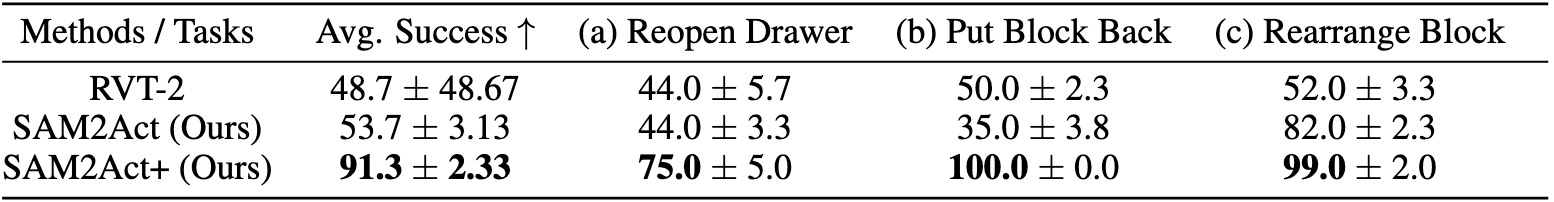
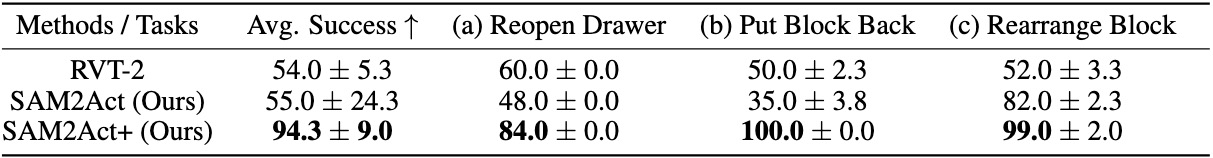
update info

diff --git a/index.html b/index.html
@@ -249,7 +249,7 @@
                             <span class="link-block">
                                 <a target="_blank" href="https://github.com/sam2act/sam2act" class="external-link button is-normal is-rounded is-dark">
                                     <span class="icon"><i class="fab fa-github"></i></span>
-                                    <span>Code (Coming Soon)</span>
+                                    <span>Code</span>
                                 </a>
                             </span>
                             <!-- MemoryBench Link. -->
@@ -423,8 +423,8 @@
                             <br></br>
                             SAM2Act leverages the pre-trained SAM2 encoder
                             to extract multi-resolution image embeddings, which are further refined through the multi-resolution
-                            upsampling technique to predict accurate translation heatmaps with minimal information loss. To ad-
-                            dress tasks requiring spatial memory, SAM2Act+ extends the SAM2Act architecture by incorporating
+                            upsampling technique to predict accurate translation heatmaps with minimal information loss. To 
+                            address tasks requiring spatial memory, SAM2Act+ extends the SAM2Act architecture by incorporating
                             memory-based components. These include Memory Bank, Memory Encoder, and Memory Attention,
                             enabling the model to encode historical actions and condition current observations. This memory-
                             based policy enhances the agent's ability to predict actions based on past contextual information,
@@ -526,9 +526,10 @@
                             (four patches), and 50% for rearrange_block (two blocks). However, variations in task complexity,
                             fixed training data, and imbalanced task distributions lead to slight deviations from these baselines.
                             Our proposed memory-based model, SAM2Act+, demonstrates <b>a strong understanding of spatial
-                            memory</b>, achieving an average success rate of <b>91.3%</b> across all tasks. It <b>outperforms SAM2Act
-                            (without memory) by a huge margin of 37.6%</b> on MemoryBench, highlighting the significant
-                            impact of explicit memory modeling.
+                            memory</b>, achieving an average success rate of <b>94.3%</b> across all tasks. It <b>outperforms SAM2Act
+                            (without memory) by a huge margin of 39.3%</b> on MemoryBench, highlighting the significant
+                            impact of explicit memory modeling. Note that we made an update to <i>open_drawer</i> task, see more 
+                            in our paper's appendix.
                         </div>
                     </p>
                 </div>
@@ -545,7 +546,7 @@
                         <div class="content has-text-justified">
                             The table above presents our real-world experiment results, where our method achieves a 75% task success
                             rate, compared to 43% for RVT-2. SAM2Act significantly outperforms the baseline in high-precision
-                            tasks (60% vs 0%). It excels in memory-based tasks, such as (d) Push the same button, which
+                            tasks (60% vs 0%). SAM2Act+ (indicated with *) excels in memory-based tasks, such as (d) Push the same button, which
                             requires recalling the button's previous location. Here, SAM2Act achieves 70% success, while RVT-2,
                             relying on random guessing, scores 40%. We also test models' generalization against perturbations
                             like lighting changes, distractors, and position variations.
